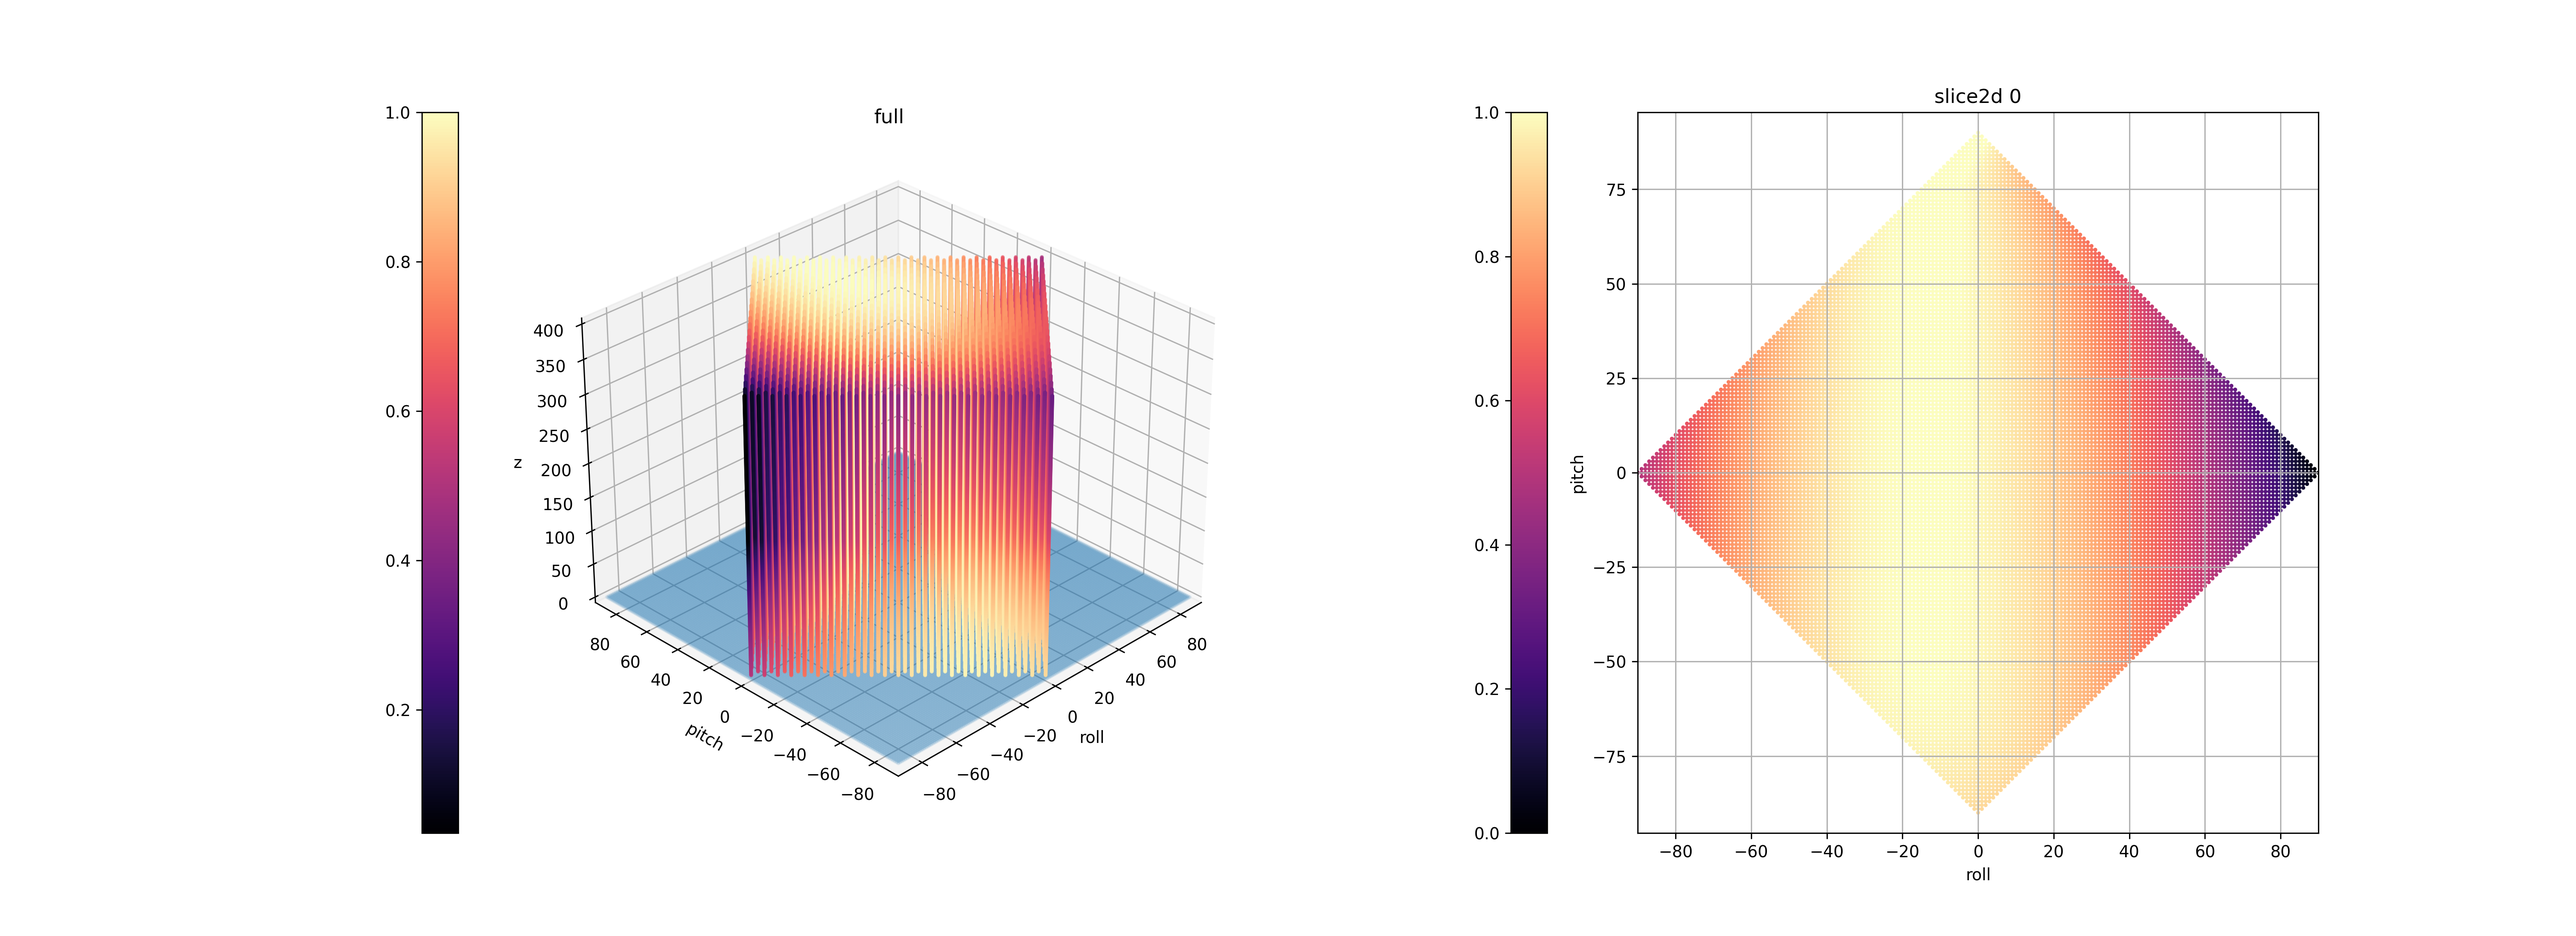
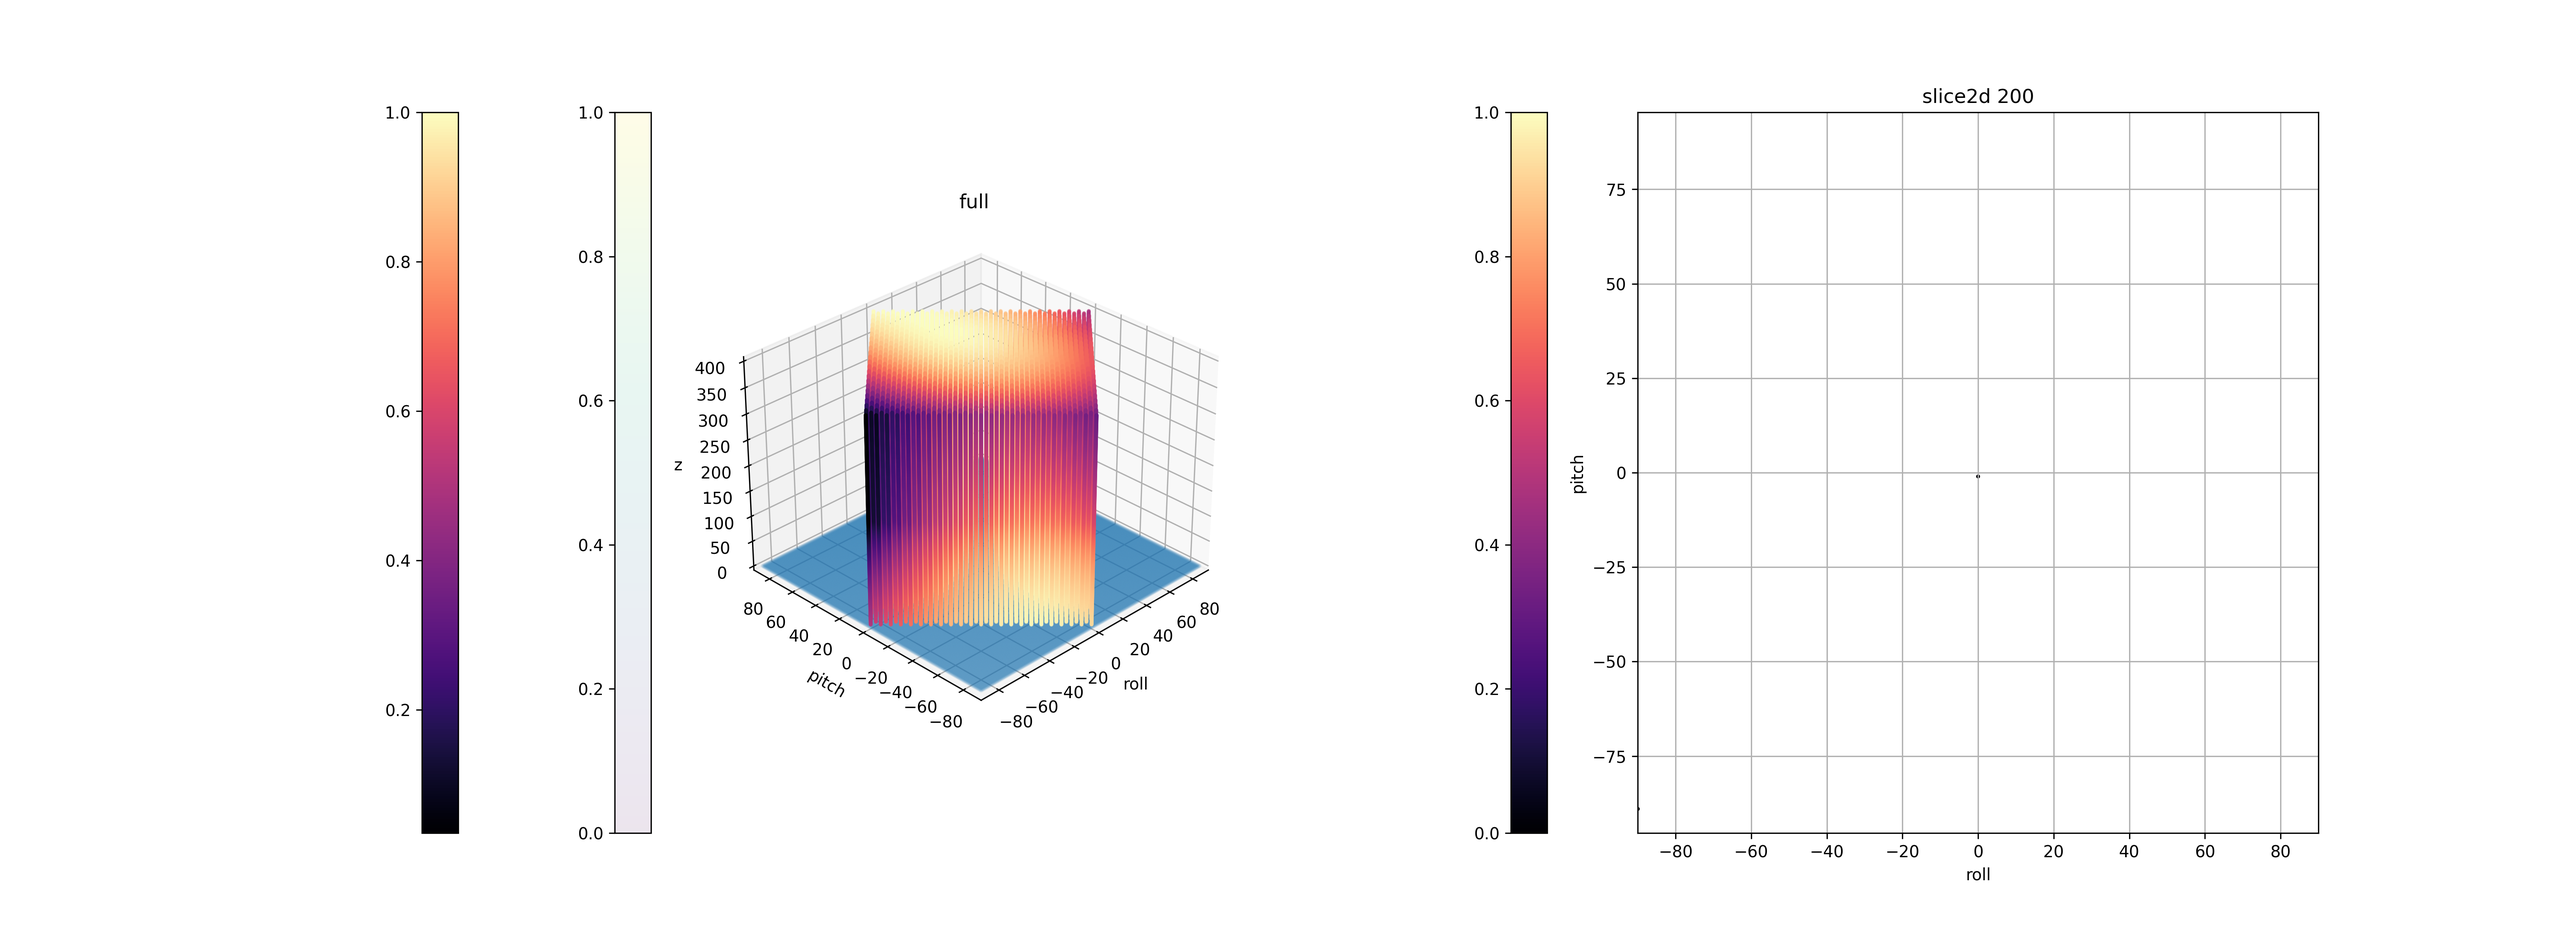
tempGifTest

diff --git a/teststuff/python/opencv/angleArea/createProfile.py b/teststuff/python/opencv/angleArea/createProfile.py
@@ -1712,19 +1712,20 @@ def opt5():
         print(" -creating colorbars")
         for key,items in plotCbs.items():
             fig.colorbar(items[0], ax=ax[items[1]], location="left")
-        return plotCbs["full"][0], plotCbs["slice"][0], plotCbs["ghost"][0] 
+        return plotCbs["full"][0], plotCbs["slice"][0]
 
     def anim_update(i):
+        print(i)
         op2_settings["zPick"]["value"]=i
         ghost[2]=[op2_settings["zPick"]["value"]]*len(ghost[0])
         plotCbs["ghost"][0]._offsets3d=(ghost[0],ghost[1],ghost[2])
         plotCbs["slice"][0].set_offsets([ \
-            ordVal[op2_settings["zPick"]["value"][0]], \
-            ordVal[op2_settings["zPick"]["value"][1]] \
+            ordVal[op2_settings["zPick"]["value"]][0], \
+            ordVal[op2_settings["zPick"]["value"]][1] \
                    ])
-        plotCbs["slice"][0].set_array(ordVal[op2_settings["zPick"]["value"][1]])
-        validSaveFig(fig, "slice_"+str(numPoints)+"_z"+f'{op2_settings["zPick"]["value"]:03d}',dirPath["media"]["slices"]["path"],imgDpi=300,saveCopies=False)
-    
+        plotCbs["slice"][0].set_array(ordVal[op2_settings["zPick"]["value"]][1])
+        #validSaveFig(fig, "slice_"+str(numPoints)+"_z"+f'{op2_settings["zPick"]["value"]:03d}',dirPath["media"]["slices"]["path"],imgDpi=300,saveCopies=False)
+        return plotCbs["full"][0], plotCbs["slice"][0]
 
     # exit()
     print("Starting funcanim.")
